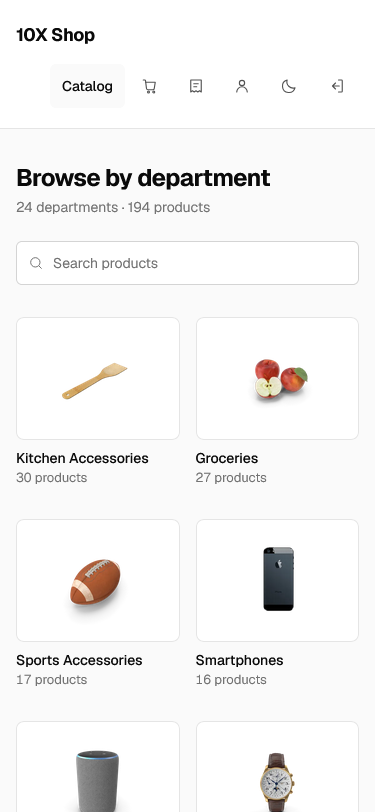
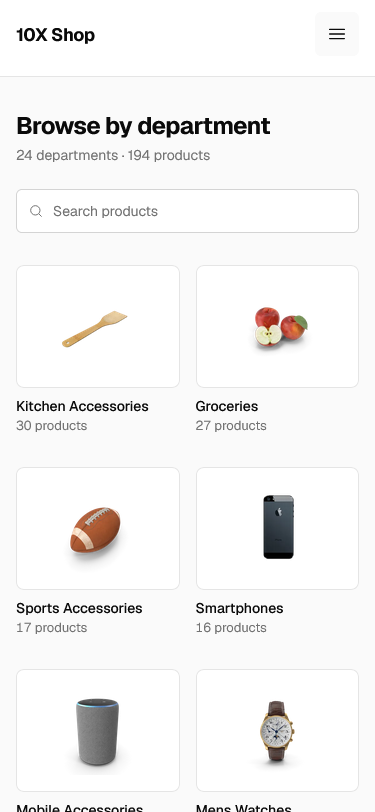
test: assert the navigation at both widths, and log the ragged row
The matrix gains a step that asserts the opposite thing at each width: below
768px there must be a menu button and every destination must be inside the
panel it opens; at 1440 that button must not exist and the bar must carry the
navigation itself. A menu leaking onto a desktop, or a phone bar quietly
keeping a row nothing can be tapped in, fails at exactly one of the two
widths, which is the point of running both.

The helper that signs out now opens the menu first when there is one - the
Log out button moved inside it on a phone, which is also the route a shopper
takes. getByRole ignores what is hidden from the accessibility tree, so only
the copy on screen is ever matched.

One thing the step got wrong first time round and is worth recording: it
named /login among the destinations it expected, but by that point in the run
the shopper has placed an order and is signed in, so the menu offers /profile
instead. It now asserts whichever of the two the bar would have shown.

88 of 88 assertions, Chrome and Firefox, 375 and 1440.

DEBUG-LOG gains entry 13, the carousel row that stood on three lines.

diff --git a/DEBUG-LOG.md b/DEBUG-LOG.md
@@ -529,6 +529,60 @@ what the step actually needed.
 
 ---
 
+## 13. The carousel's frames stood on three different lines
+
+**Symptom.** Reported from a phone: the product runs on the landing page look
+ragged, the frames are "not on same line". On a desktop they are perfect.
+
+**Reproduction.** Open `/` at 375px and look at either run.
+
+**Tool.** Measurement rather than eyes, because the difference is one line of
+13px text and a screenshot argument would have gone in circles. Reading
+`getBoundingClientRect()` off every frame in the row named it at once:
+
+```
+375px   256x312@top291  144x215@top388  144x215@top388  144x195@top407  144x195@top407
+768px   320x376@top258  176x227@top407  176x227@top407  176x227@top407  176x227@top407
+```
+
+Two heights at 375 and one at 768. Nineteen pixels apart, which is one line.
+
+**Root cause.** Two independent variable-height captions under a row that is
+bottom-aligned. `items-end` is deliberate - it is what puts the frames on a
+shared baseline with one lifted above them - but it means any caption that is
+shorter lifts its whole frame, picture included, by that much.
+
+1. The title is `line-clamp-2`: clamped at two lines but free to be one. A
+   short name made a short frame.
+2. The price row was `flex-wrap`, and three figures do not fit across a 144px
+   frame, so some rows took two lines and others one.
+
+At 768px the frames are 176px wide, every title wrapped and every price fit,
+so all the frames happened to agree and the bug was invisible.
+
+**Fix.** The title reserves two lines whether or not it fills them, with
+`min-h-[2lh]` - two of that element's *own* line boxes, so the lifted frame's
+larger type reserves its own larger space and there is no second number to
+keep in step. The price row no longer wraps, and the small frames drop the
+struck-through original until there is room for it: the percentage beside it
+already says there is a discount, and the price actually being charged is the
+one figure that must never go.
+
+**Verification.** Every frame in every run, at 375, 414, 768, 1024 and 1440:
+one top edge, one height. The department grid and the product grid were
+measured the same way and were already square.
+
+**What I learned.** A layout bug that only appears at one width is a layout
+bug nobody will see in review, because review happens on a laptop. The reason
+it only appeared there is worth keeping too: `line-clamp-2` sets a maximum,
+and I had read it as a size. Anything that bottom-aligns a row needs its
+variable parts given a floor, not just a ceiling. And `lh` turned out to be
+the right unit precisely because it is not a number I chose - it is whatever
+the line box already is, so it cannot drift from the type it is reserving
+space for.
+
+---
+
 ## Checking the error boundary
 
 Not a bug, but worth recording since the boundary is otherwise invisible.

diff --git a/docs/compat/README.md b/docs/compat/README.md
@@ -28,11 +28,12 @@ and every `overflow` is `false`.
 
 ## What it asserts
 
-Twenty steps — the landing page, the catalogue in both of its states, one
+Twenty-one steps — the landing page, the catalogue in both of its states, one
 department, the paged catalogue, a product, the cart, the checkout guard, login
 validation, sign up and its two account rules, the order, the three Not-found
-cases and a direct visit to a deep URL — plus a horizontal-scroll measurement
-after each one, in Chrome and Firefox, at 375 × 812 and 1440 × 900.
+cases, the navigation at each width and a direct visit to a deep URL — plus a
+horizontal-scroll measurement after each one, in Chrome and Firefox, at
+375 × 812 and 1440 × 900.
 
 The steps wait for a named element or URL and throw if it does not arrive, so a
 pass means the behaviour happened, not that the page merely loaded.
@@ -49,6 +50,13 @@ screenshot block still waited for an `article` there, and because it sat outside
 all, in either browser. Waits on the departments view now look for
 `a[href^="/catalog?category="]`, and only the views that render cards wait for
 `article`.
+
+**A step may assert different things at different widths.** The navigation
+step is the only one that does: below 768px it opens the menu and looks inside
+it, above it asserts that no menu button exists and the bar carries the links.
+Every other step is written to pass at both widths, and the helper that signs
+out opens the menu first when there is one, which is also what a shopper on a
+phone does.
 
 **Expected failures are named, not ignored.** The suite asks DummyJSON for
 `/products/999999` on purpose, so that one URL is allowed to 404. Every other

diff --git a/COMPATIBILITY.md b/COMPATIBILITY.md
@@ -52,13 +52,22 @@ document did not scroll sideways at that width.
 | 14 | `/nope` shows "Page not found" | ✓ | ✓ | ✓ | ✓ |
 | 15 | `/products/abc` shows "Page not found" | ✓ | ✓ | ✓ | ✓ |
 | 16 | `/products/999999` shows "Page not found" | ✓ | ✓ | ✓ | ✓ |
-| 17 | `/products/5` opens from a direct visit (SPA rewrite) | ✓ | ✓ | ✓ | ✓ |
+| 17 | The navigation suits the width: a row at 1440, one menu button at 375 | ✓ | ✓ | ✓ | ✓ |
+| 18 | `/products/5` opens from a direct visit (SPA rewrite) | ✓ | ✓ | ✓ | ✓ |
 | — | No horizontal scroll after every step above | ✓ | ✓ | ✓ | ✓ |
 | — | No console error and no unexpected failed request | ✓ | ✓ | ✓ | ✓ |
 
-**84 of 84 assertions passed** — 20 steps plus one console-and-network check,
+**88 of 88 assertions passed** — 21 steps plus one console-and-network check,
 each at 2 widths in 2 browsers. No layout or behavioural difference was found
 between the two engines, at either width.
+
+Row 17 is the one the collapsed navigation added, and it asserts the opposite
+thing at each width: below 768px there must be a menu button and every
+destination must be inside the panel it opens; at 1440 that button must not
+exist and the bar must carry the navigation itself. A menu that leaked onto a
+desktop, or a phone bar that quietly kept a row nothing could be tapped in,
+would fail at exactly one of the two widths — which is the point of running
+both.
 
 Rows 1a to 1c are the three the catalogue restructure added. The catalogue now
 opens on its departments, so 1a asserts both halves of that — every department
